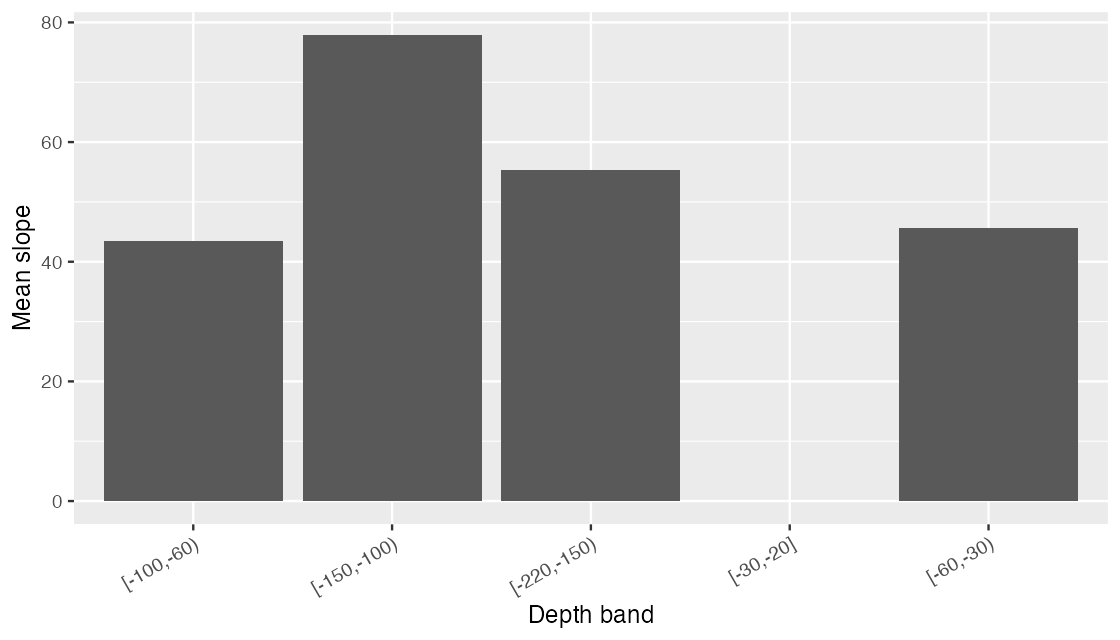
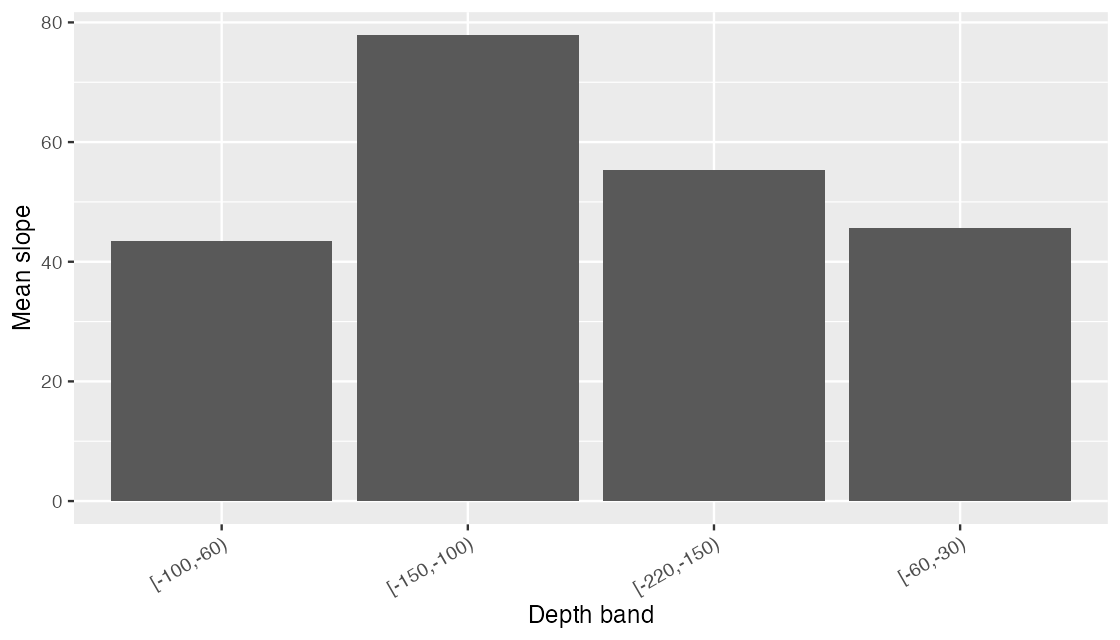
Record final visual proof

diff --git a/README.md b/README.md
@@ -108,13 +108,13 @@ rectangles. The explicitly named `"synthetic_bathy"` and
 
 ``` r
 blueterra_example("hitw")
-#> [1] "/private/var/folders/7j/dr505g_j3zd9z6m9qdykzc4w0000gn/T/RtmpMKAx0b/temp_libpath1dce0a3d69/blueterra/extdata/laparguera_hitw_bathy.tif"
+#> [1] "/private/var/folders/7j/dr505g_j3zd9z6m9qdykzc4w0000gn/T/RtmpILxnn8/temp_libpath1e4068a1bd04/blueterra/extdata/laparguera_hitw_bathy.tif"
 blueterra_example("hoyo")
-#> [1] "/private/var/folders/7j/dr505g_j3zd9z6m9qdykzc4w0000gn/T/RtmpMKAx0b/temp_libpath1dce0a3d69/blueterra/extdata/laparguera_hoyo_bathy.tif"
+#> [1] "/private/var/folders/7j/dr505g_j3zd9z6m9qdykzc4w0000gn/T/RtmpILxnn8/temp_libpath1e4068a1bd04/blueterra/extdata/laparguera_hoyo_bathy.tif"
 blueterra_example("slope")
-#> [1] "/private/var/folders/7j/dr505g_j3zd9z6m9qdykzc4w0000gn/T/RtmpMKAx0b/temp_libpath1dce0a3d69/blueterra/extdata/laparguera_slope_bathy.tif"
+#> [1] "/private/var/folders/7j/dr505g_j3zd9z6m9qdykzc4w0000gn/T/RtmpILxnn8/temp_libpath1e4068a1bd04/blueterra/extdata/laparguera_slope_bathy.tif"
 blueterra_example("sampling_rectangles")
-#> [1] "/private/var/folders/7j/dr505g_j3zd9z6m9qdykzc4w0000gn/T/RtmpMKAx0b/temp_libpath1dce0a3d69/blueterra/extdata/laparguera_sampling_rectangles.gpkg"
+#> [1] "/private/var/folders/7j/dr505g_j3zd9z6m9qdykzc4w0000gn/T/RtmpILxnn8/temp_libpath1e4068a1bd04/blueterra/extdata/laparguera_sampling_rectangles.gpkg"
 ```
 
 ## Raster Input and Validation

diff --git a/qa/visual-proof/visual-proof.md b/qa/visual-proof/visual-proof.md
@@ -1,14 +1,14 @@
 # blueterra Visual Proof
 
-- Date/time: 2026-07-09 06:14:01 AST
-- Git commit: ba2d414348f8f377fb8caefaa7ce5828b0629314
+- Date/time: 2026-07-09 06:16:53 AST
+- Git commit: 6babe041478b833f1838a778ee2efe30e07d8e90
 - Working tree dirty at proof start: FALSE
 - Dirty paths at proof start: none
 - R version: R version 4.5.3 (2026-03-11)
 - Package version: 0.1.0
 - System: Darwin 25.2.0 arm64
 - Package tarball: blueterra_0.1.0.tar.gz
-- Package tarball size: 1748708 bytes
+- Package tarball size: 1748707 bytes
 - Package tarball size: 1.749 MB
 
 ## Example Files